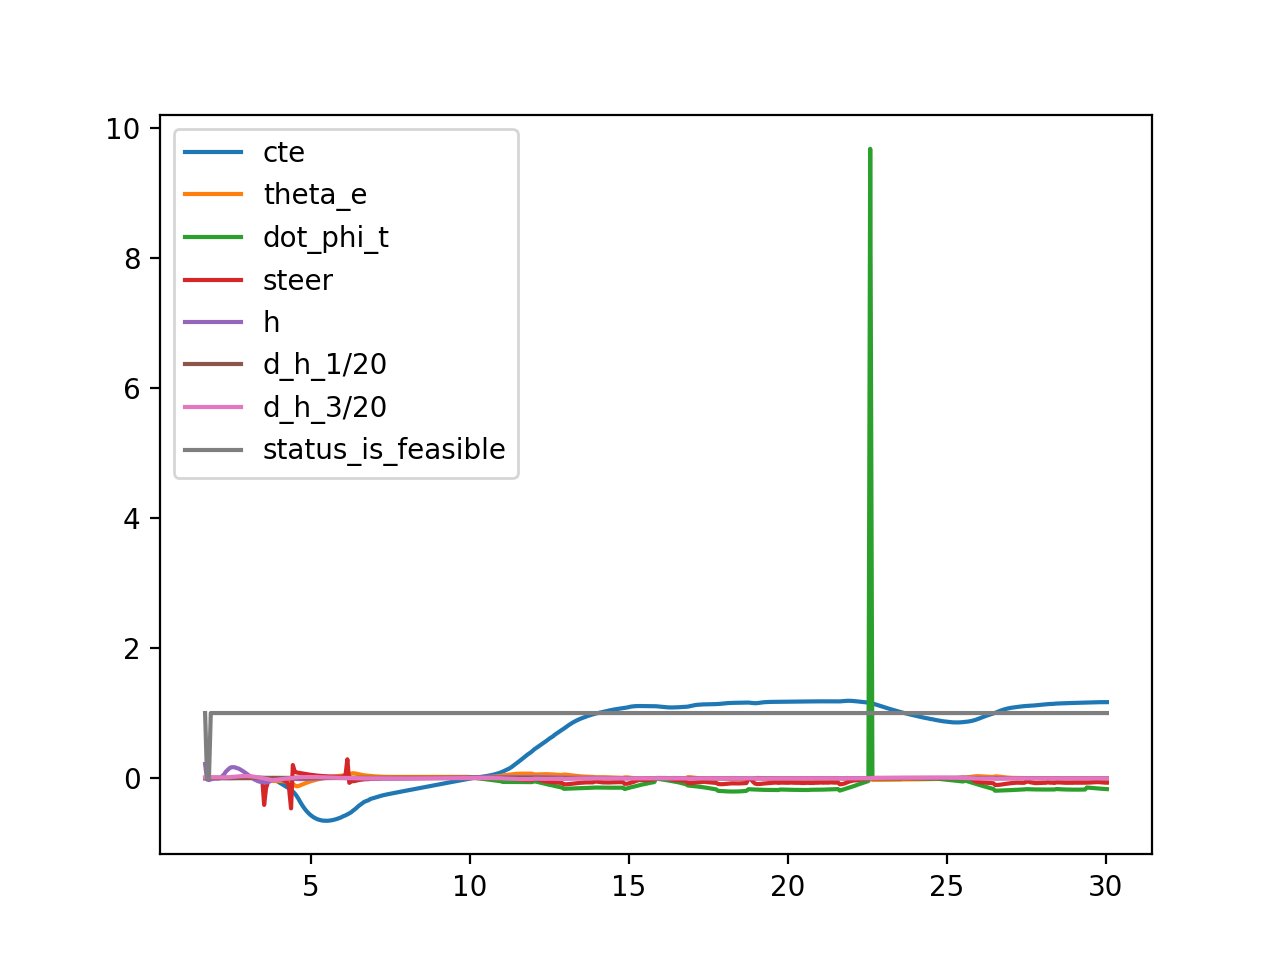
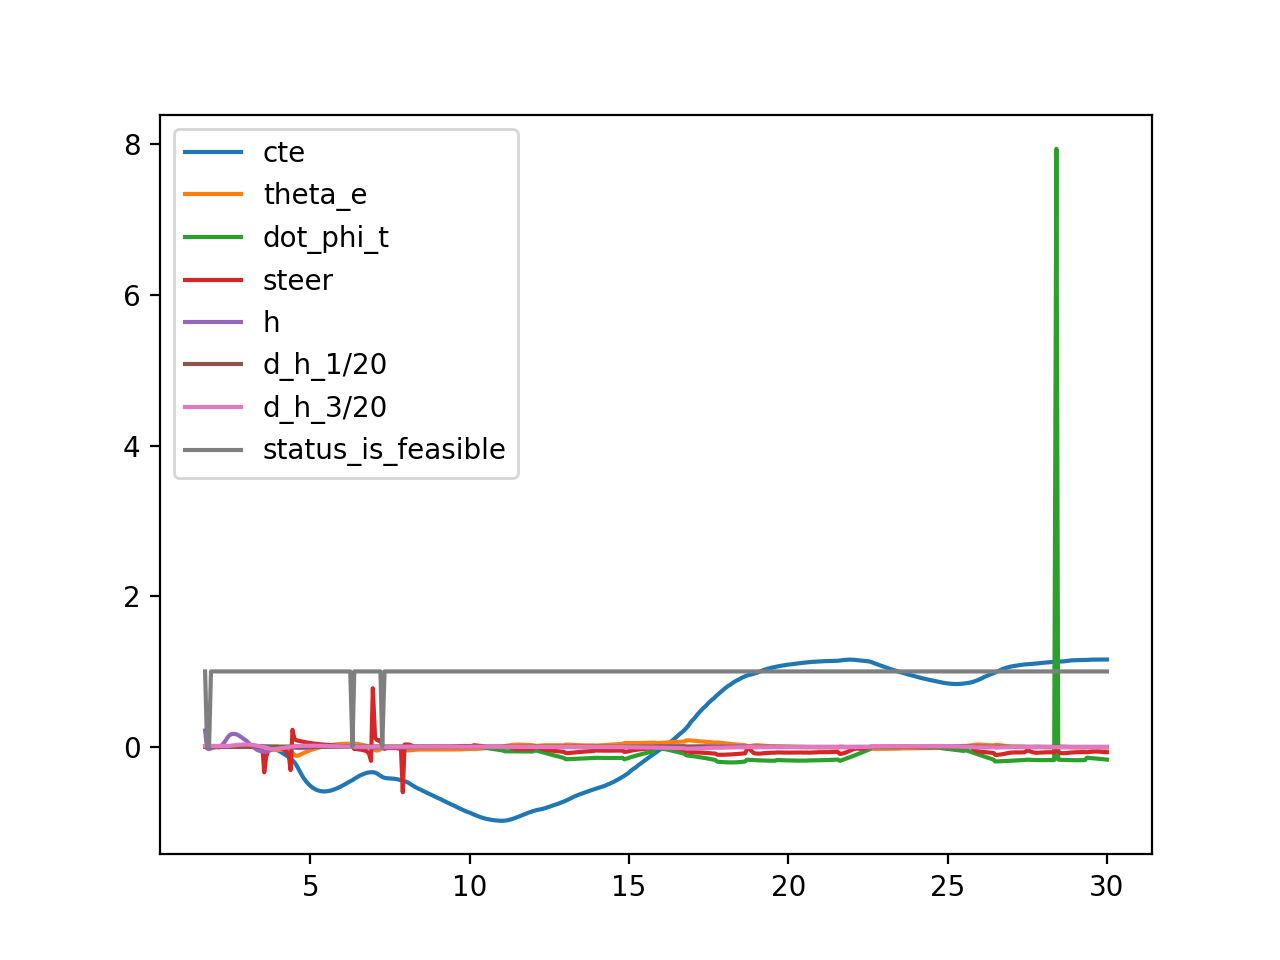
add server results

diff --git a/carla/automatic_control_state_based_cbf_train_location_server_version.py b/carla/automatic_control_state_based_cbf_train_location_server_version.py
@@ -712,7 +712,7 @@ def game_loop(args):
     initial_position_array[2] = 180
 
     list_init_cte = [0.4, 0, -0.4]
-    list_init_theta = [-0.2 / PI * 180, 0, 0.2 / PI * 180]
+    list_init_theta = [-0.15 / PI * 180, 0, 0.15 / PI * 180]
 
     # load the trained cbf
     args_dict = load_json(ARGS_PATH)
